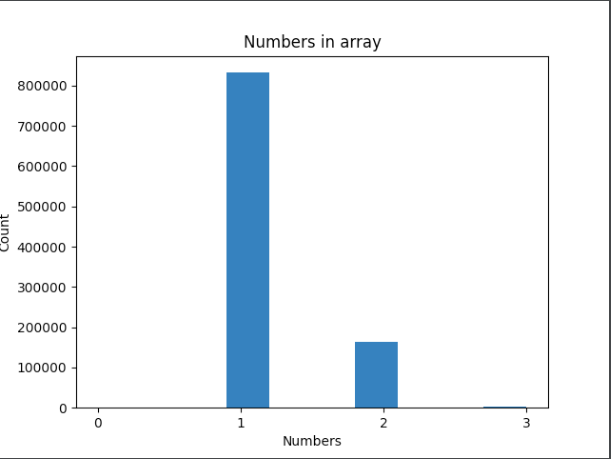
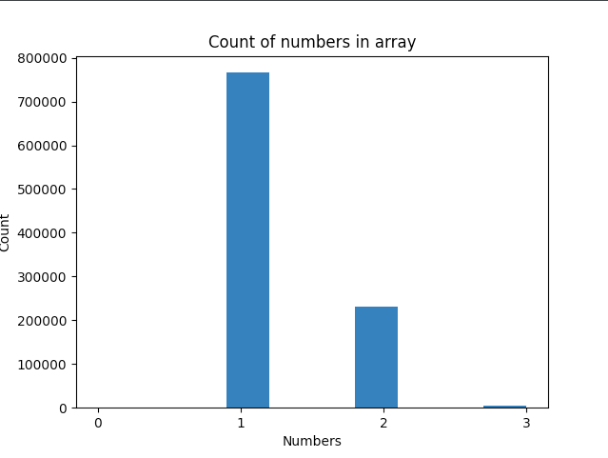
docs: change histogram title

diff --git a/1.variation.py b/1.variation.py
@@ -42,7 +42,7 @@ def make_visual_histogram(data):
     """
     pyplot.hist(x=data)
     pyplot.xticks(range(max(data) + 1))
-    pyplot.title('Numbers in array')
+    pyplot.title('Count of numbers in array')
     pyplot.xlabel('Numbers')
     pyplot.ylabel('Count')
     pyplot.show()
